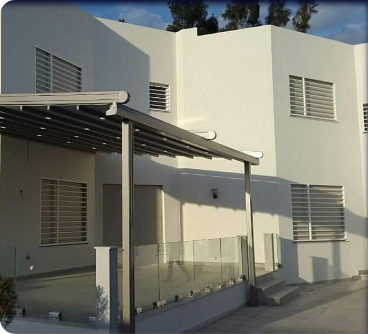
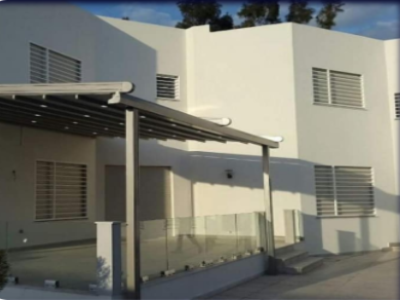
services done
i finished the button function ,the double background,the photo editing....

diff --git a/src/pages/Services/components/card3.jsx b/src/pages/Services/components/card3.jsx
@@ -1,0 +1,61 @@
+import { React,useState } from 'react'
+import {Card,Box,Typography,Button,CardContent}from"@mui/material"
+import Styled from"@emotion/styled"
+import img1 from'../photos/image1.png'
+import img2 from'../photos/image2.png'
+import img3 from'../photos/image3.png'
+import before from"../photos/before.png"
+import after from"../photos/after.png"
+import "./cards.css"
+const StyledContent=Styled(CardContent)({
+    display:"flex",
+    justifyContent:"space-between",
+    alignItems:"center"
+
+})
+const StyledText=Styled(Typography)({
+    fontFamily:"Lato",
+    fontWeight:"bolder",
+    display:'inline'    
+}
+)
+const TextBox=Styled(Box)({ margin:"15px"})
+const StyledBox=Styled(Box)({
+    margin:"10px",display:"flex",justifyContent:"space-between",alignItems:"center",height:"60%",width:"100%",
+})
+function Card3() {
+    const[index,SetIndex]=useState(1)
+    const images = [img1, img2, img3];
+    const clicked=()=>{
+       SetIndex((index + 1) % 3)
+       
+    }     
+    const Rclicked=()=>{
+       SetIndex(((index + 3) -1) % 3)
+    }     
+     return (<Box> 
+       <Card sx={{backgroundColor: { xs: "white",sm:"#F8F5EC"}}}>
+        <div className="back">
+           <CardContent sx={{textAlign:"center"}}>
+               <TextBox>
+                <StyledText variant='h3'><StyledText variant='h3'sx={{color:"#57C9EA"}}>P</StyledText>ublicité sur <StyledText variant='h3'sx={{color:"#57C9EA"}}>L</StyledText>ieux de <StyledText variant='h3'sx={{color:"#57C9EA"}}>V</StyledText>ente</StyledText><br />
+                </TextBox>
+                   <Typography variant="subtitle2">Azert fhjir bjheyt rety byby bsjkkz o ksdn onuroaz ch djdjd ppzhdo koijhgboistulier maids il najamais fait ca.</Typography>
+               
+                <StyledContent>
+                   <Button onClick={clicked} variant="contianed"><img className='buttons' src={before}/></Button>
+                <StyledBox >
+                   
+               <Box  sx={{display:{xs:"none",sm:"block"}}}><img className='image1' src={images[(index + images.length - 1) % images.length]}/></Box>
+               <Box ><img className='image2' src={images[index]} alt="img2" /></Box>
+               <Box sx={{display:{xs:"none",sm:"block"}}}><img className='image3' src={images[(index + 1) % images.length]} alt="img3" /></Box>
+               </StyledBox>
+               <Button onClick={Rclicked} variant="contianed"><img className='buttons' src={after}/></Button>
+               </StyledContent>         
+           </CardContent>
+           </div>
+       </Card> </Box>
+     )
+}
+
+export default Card3

diff --git a/src/pages/Services/components/card2.jsx b/src/pages/Services/components/card2.jsx
@@ -1,0 +1,61 @@
+import React, { useState } from 'react'
+import {Card,Box,Typography,Button,CardContent}from"@mui/material"
+import Styled from"@emotion/styled"
+import img1 from'../photos/image1.png'
+import img2 from'../photos/image2.png'
+import img3 from'../photos/image3.png'
+import before from"../photos/before.png"
+import after from"../photos/after.png"
+import "./cards.css"
+
+const StyledContent=Styled(CardContent)({
+    display:"flex",
+    justifyContent:"space-between",
+    alignItems:"center"
+
+})
+const StyledText=Styled(Typography)({
+    fontFamily:"Lato",
+    fontWeight:"bolder",
+    display:'inline'    
+}
+)
+const TextBox=Styled(Box)({ margin:"15px"})
+const StyledBox=Styled(Box)({
+    margin:"10px",display:"flex",justifyContent:"space-between",alignItems:"center",height:"60%",width:"100%",
+})
+function Card2() {
+    const[index,SetIndex]=useState(1)
+    const images = [img1, img2, img3];
+    const clicked=()=>{
+       SetIndex((index + 1) % 3)
+       
+    }     
+    const Rclicked=()=>{
+       SetIndex(((index + 3) -1) % 3)
+    }     
+     return (<Box> 
+       <Card sx={{backgroundColor: { xs: "white",sm:"#F8F5EC"}}}>
+    
+           <CardContent sx={{textAlign:"center"}}>
+           <TextBox >
+                <StyledText variant='h3'>Impression <StyledText variant='h3'sx={{color:"#57C9EA"}}>Numérique</StyledText></StyledText><br />
+                </TextBox> 
+                   <Typography variant="subtitle2">Azert fhjir bjheyt rety byby bsjkkz o ksdn onuroaz ch djdjd ppzhdo koijhgboistulier maids il najamais fait ca.</Typography>
+               
+                <StyledContent>
+                   <Button onClick={clicked} variant="contianed"><img className='buttons' src={before}/></Button>
+                <StyledBox >
+                   
+               <Box  sx={{display:{xs:"none",sm:"block"}}}><img className='image1' src={images[(index + images.length - 1) % images.length]}/></Box>
+               <Box ><img className='image2' src={images[index]} alt="img2" /></Box>
+               <Box sx={{display:{xs:"none",sm:"block"}}}><img className='image3' src={images[(index + 1) % images.length]} alt="img3" /></Box>
+               </StyledBox>
+               <Button onClick={Rclicked} variant="contianed"><img className='buttons' src={after}/></Button>
+               </StyledContent>         
+           </CardContent>
+       </Card> </Box>
+     )
+}
+
+export default Card2

diff --git a/src/pages/Services/components/card1.jsx b/src/pages/Services/components/card1.jsx
@@ -1,0 +1,62 @@
+import  {React, useState } from 'react'
+import {Card,Box,Typography,Button,CardContent}from"@mui/material"
+import Styled from"@emotion/styled"
+import img1 from'../photos/image1.png'
+import img2 from'../photos/image2.png'
+import img3 from'../photos/image3.png'
+import before from"../photos/before.png"
+import after from"../photos/after.png"
+import "./cards.css"
+const StyledContent=Styled(CardContent)({
+    display:"flex",
+    justifyContent:"space-between",
+    alignItems:"center"
+})
+const StyledText=Styled(Typography)({
+    fontFamily:"Lato",
+    fontWeight:"bolder",
+    display:'inline'   
+})
+const TextBox=Styled(Box)({ margin:"15px"})
+const StyledBox=Styled(Box)({
+    margin:"10px",display:"flex",justifyContent:"space-evenly",alignItems:"center",height:"60%",width:"100%",
+})
+
+function Card1 () {
+ const[index,SetIndex]=useState(1)
+ const images = [img1, img2, img3];
+ const clicked=()=>{
+    SetIndex((index + 1) % 3)
+    
+ }     
+ const Rclicked=()=>{
+    SetIndex(((index + 3) -1) % 3)
+ }     
+  return (<Box> 
+    <Card sx={{backgroundColor: { xs: "white",sm:"#F8F5EC"}}}>
+       <div className="back">
+        <CardContent sx={{textAlign:"center"}}>   
+                 <TextBox  >
+                <StyledText variant='h3'>Store<StyledText variant='h3'sx={{color:"#57C9EA"}}> & </StyledText>Abris</StyledText>
+                </TextBox>
+                <Typography variant="subtitle2">Azert fhjir bjheyt rety byby bsjkkz o ksdn onuroaz ch djdjd ppzhdo koijhgboistulier maids il najamais fait ca.</Typography>
+                
+           
+            
+             <StyledContent>
+                <Button onClick={clicked} variant="contianed"><img className='buttons' src={before}/></Button>
+             <StyledBox >
+                
+            <Box  sx={{display:{xs:"none",sm:"block"}}}><img className='image1' src={images[(index + images.length - 1) % images.length]}/></Box>
+            <Box ><img className='image2' src={images[index]} alt="img2" /></Box>
+            <Box sx={{display:{xs:"none",sm:"block"}}}><img className='image3' src={images[(index + 1) % images.length]} alt="img3" /></Box>
+            </StyledBox>
+            <Button onClick={Rclicked} variant="contianed"><img className='buttons' src={after}/></Button>
+            </StyledContent>        
+        </CardContent>
+        </div> 
+    </Card> </Box>
+     )
+}
+
+export default Card1

diff --git a/src/pages/Services/Services.jsx b/src/pages/Services/Services.jsx
@@ -1,9 +1,9 @@
 import React from "react";
 import "./Services.css";
 import {Box} from "@mui/material"
-import Card1 from "./services-components/card1";
-import Card2 from "./services-components/card2";
-import Card3 from "./services-components/card3";
+import Card1 from "./components/card1";
+import Card2 from "./components/card2";
+import Card3 from "./components/card3";
 function Services() {
   return(
     <Box>

diff --git a/src/pages/Services/components/cards.css b/src/pages/Services/components/cards.css
@@ -1,0 +1,24 @@
+.image2{
+    width: 100%;
+    height: 100%;
+    border-radius:5% ;
+}
+.image1{
+    border-radius: 5% 0% 0% 5% ;
+    width: 60%;
+    height: 60%;
+}
+.image3{
+    border-radius: 0% 5% 5% 0% ;
+    width: 60%;
+    height: 60%;
+}
+.buttons{
+    height:20px;
+    width: 15px;
+}
+.back{
+  background-color: rgba(87,201,234,0.08);
+  border-radius: 4%;
+    
+}
